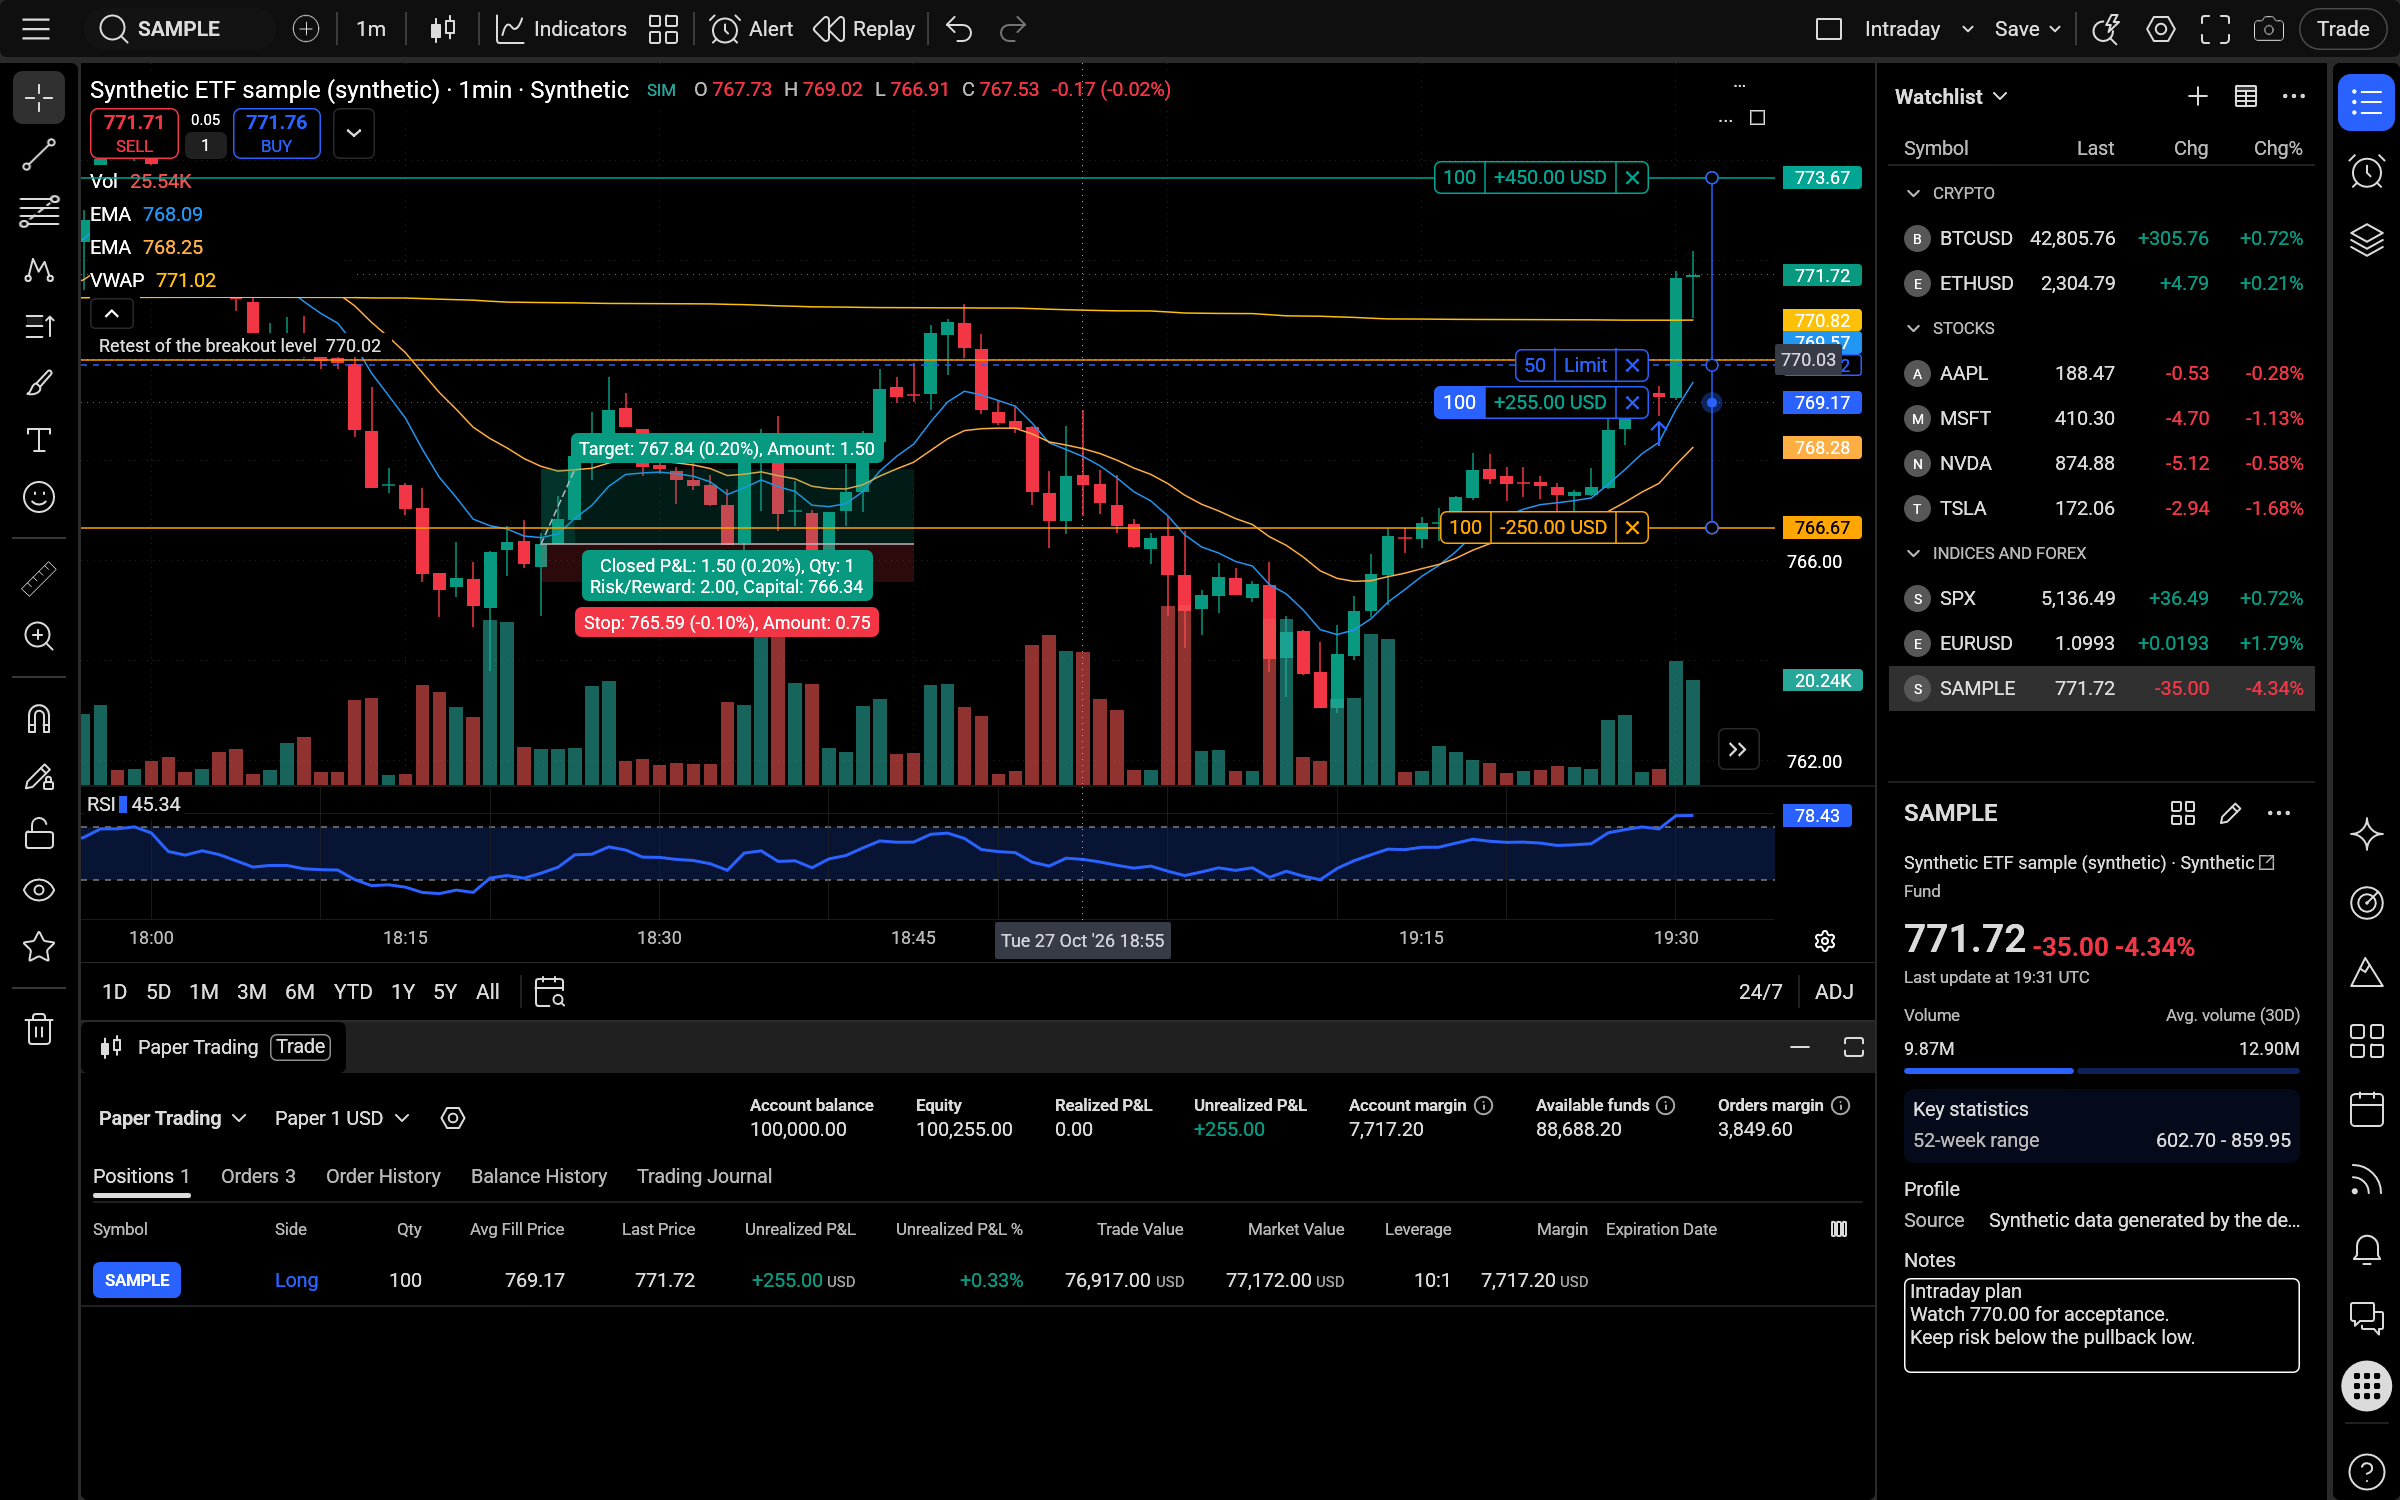
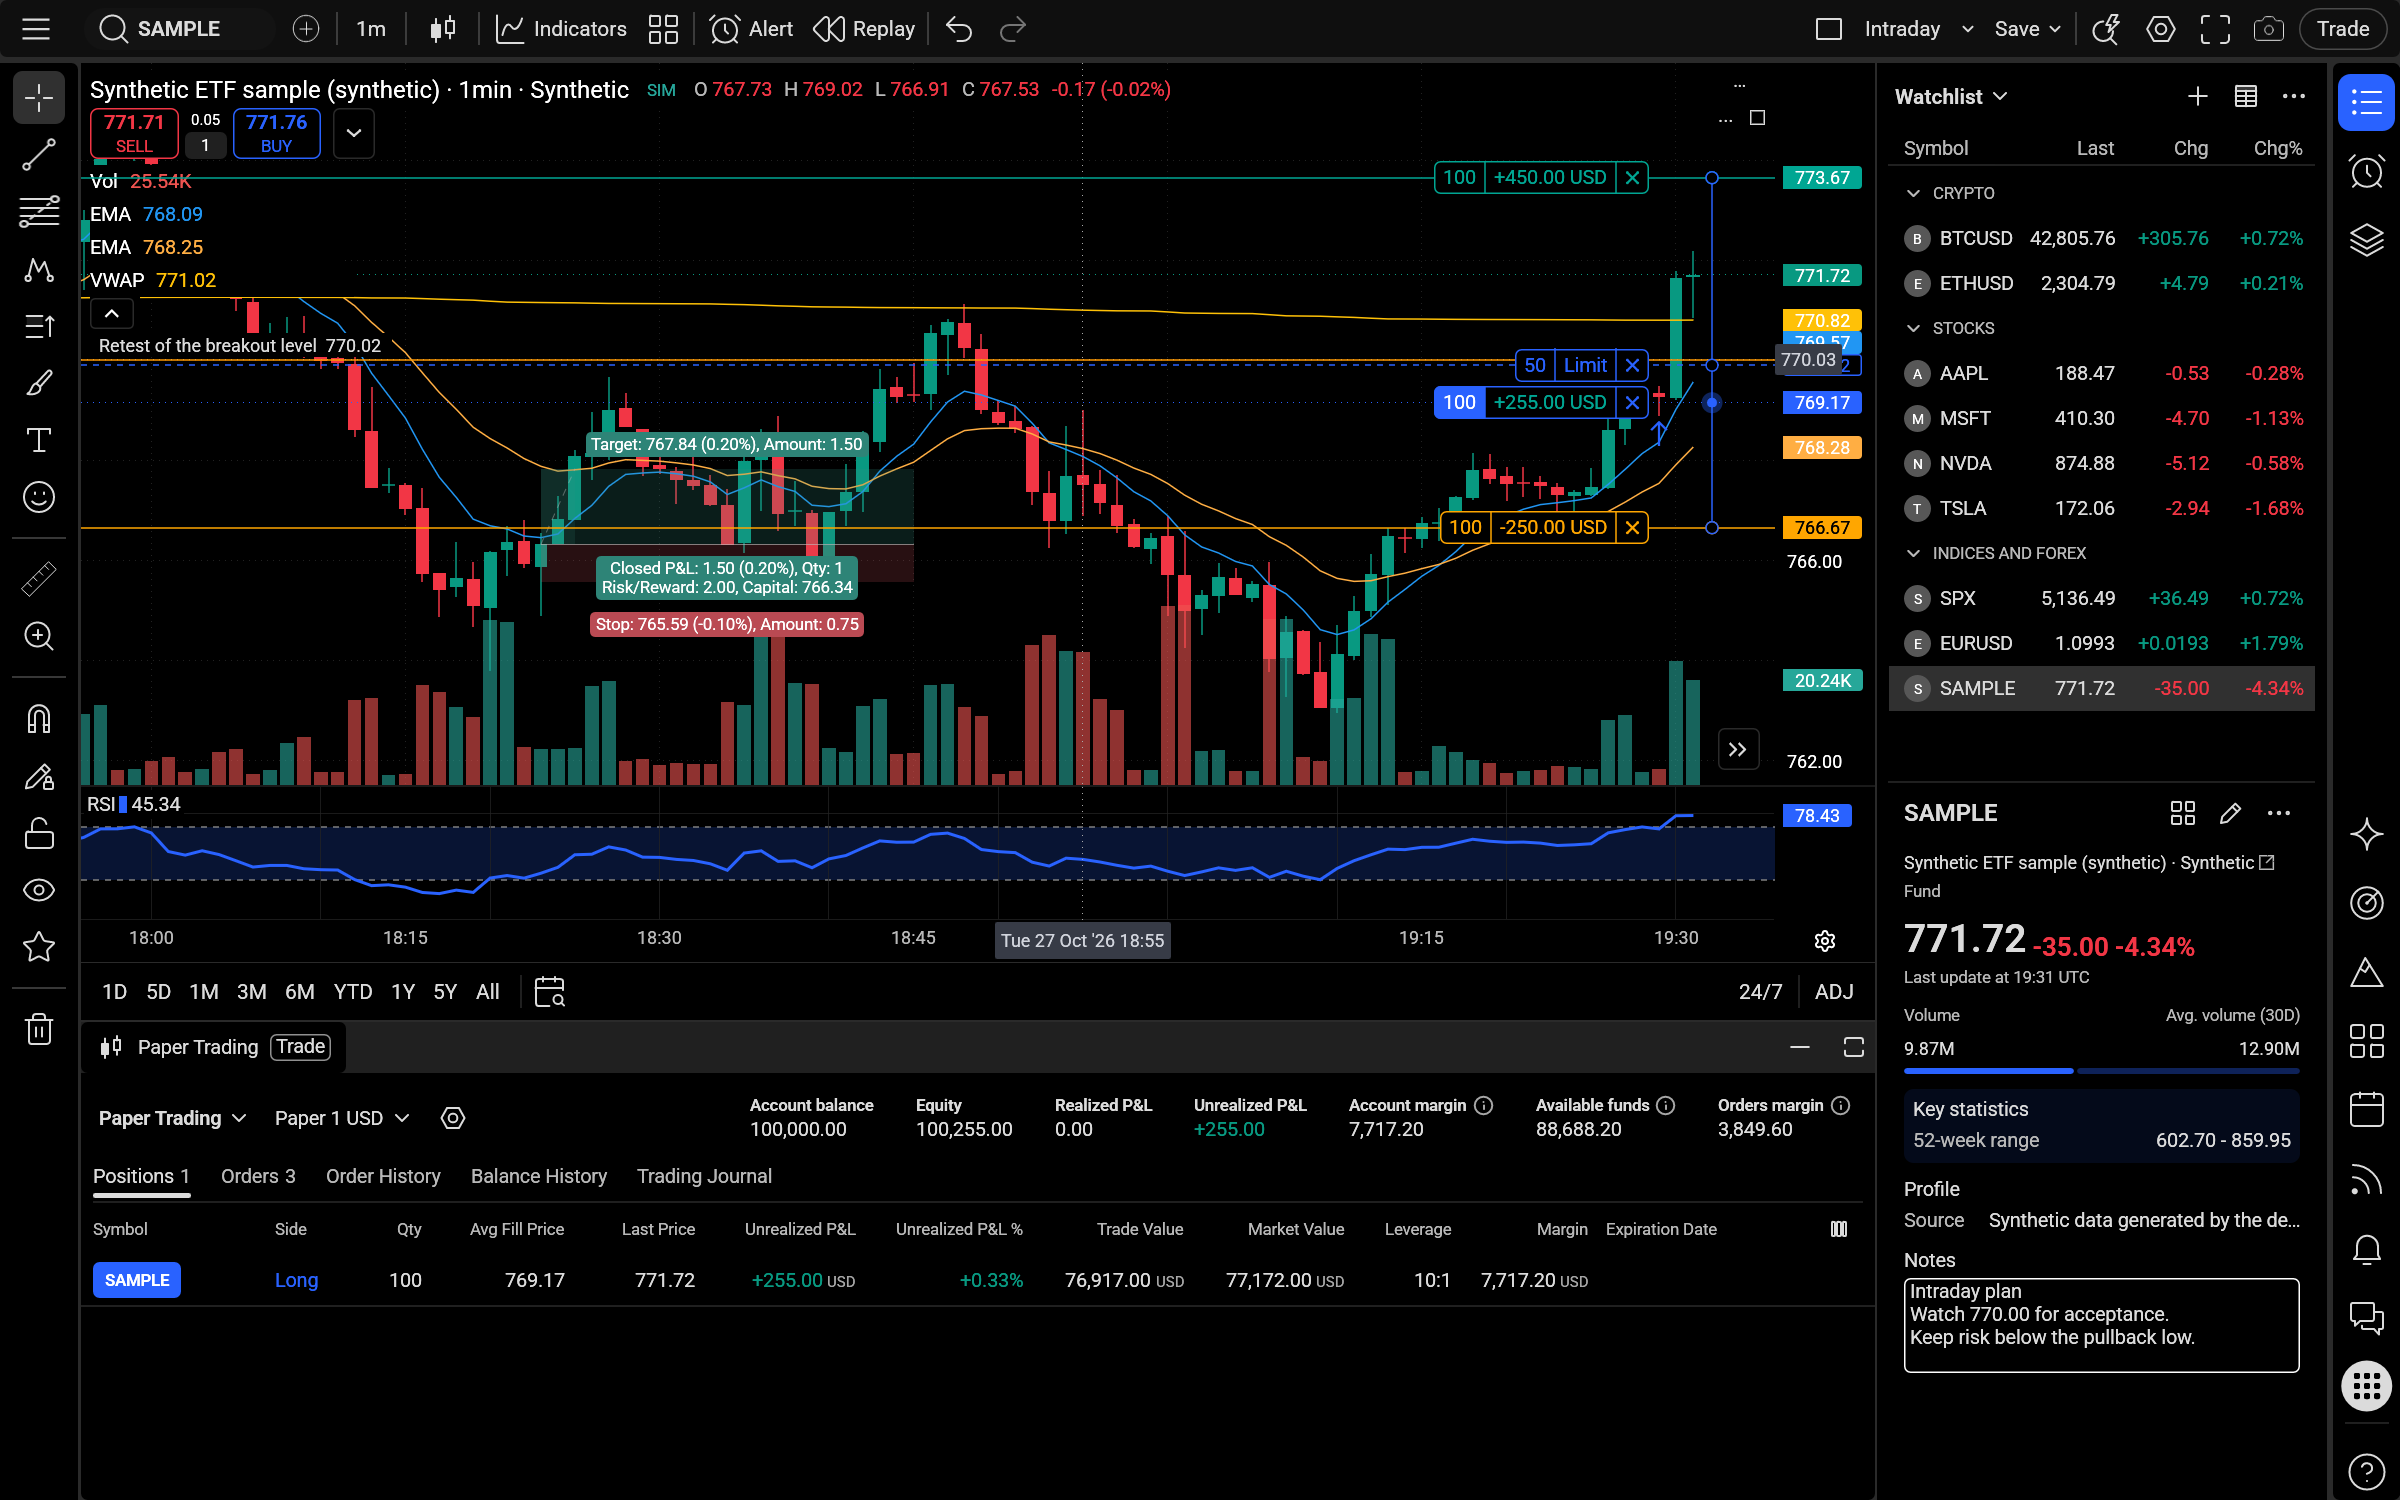
style(drawings): refine position labels and selection handles
Compact the position labels and soften zone colours so the candles remain easy to read. Use finer hollow handles and a light stats border to make selection clear, with deeper label fills for readable white text in the light theme.

Refresh both README images. Formatting, lint checks and all 135 drawing tests pass.

Changed region(s): [[0.2188, 0.368, 0.375, 0.4293], [0.2188, 0.276, 0.375, 0.3067]]

diff --git a/src/drawings/rendering/trading/position.rs b/src/drawings/rendering/trading/position.rs
@@ -5,16 +5,20 @@ use crate::drawings::rendering::utils::draw_dashed_line;
 use crate::drawings::rendering::{ChartView, bars_between};
 use crate::model::{Bar, percent_change};
 use crate::styles::{stroke, typography};
+use crate::theme::ThemeExt;
 use crate::tokens::DESIGN_TOKENS;
 use egui::{Color32, Pos2, Rect, Stroke};
-
-/// Opacity of the target and stop zones, and of the shading added over the part the trade covered.
-const ZONE_ALPHA: f32 = 0.18;
 
 impl Drawing {
     /// Renders a long or short position: entry, target and stop zones, and the
     /// result of replaying the bars after the entry bar up to the right edge.
-    pub(crate) fn render_pos_tool(&self, painter: &egui::Painter, view: &ChartView, is_long: bool) {
+    pub(crate) fn render_pos_tool(
+        &self,
+        painter: &egui::Painter,
+        view: &ChartView,
+        is_long: bool,
+        selected: bool,
+    ) {
         let (&[entry, target, ..], &[entry_at, target_at, ..]) =
             (self.points.as_slice(), self.chart_points.as_slice())
         else {
@@ -24,10 +28,18 @@ impl Drawing {
             return;
         };
 
-        // Position colors
-        let profit_color = DESIGN_TOKENS.semantic.extended.bullish;
-        let loss_color = DESIGN_TOKENS.semantic.extended.bearish;
-        let entry_color = DESIGN_TOKENS.semantic.extended.chart_text_secondary;
+        let theme = painter.ctx().active_theme();
+        let muted = |color: Color32| color.lerp_to_gamma(Color32::from_gray(128), 0.35);
+        let profit_color = muted(DESIGN_TOKENS.semantic.extended.bullish);
+        let loss_color = muted(DESIGN_TOKENS.semantic.extended.bearish);
+        // Opaque, deeper label fills keep white text legible on a light chart too.
+        let label_color = |color: Color32| {
+            color.lerp_to_gamma(Color32::BLACK, if theme.dark { 0.08 } else { 0.18 })
+        };
+        let entry_color = theme.chart.axis_text_secondary;
+        let zone_alpha = if theme.dark { 0.20 } else { 0.12 };
+        let covered_alpha = if theme.dark { 0.14 } else { 0.10 };
+        let line_width = 1.0 / painter.pixels_per_point();
 
         let (entry_price, target_price) = (entry_at.price, target_at.price);
         // The stop anchor is added when the tool is placed; until then (while
@@ -91,8 +103,20 @@ impl Drawing {
 
         let right = Self::position_right(entry, target);
 
-        self.draw_zone(painter, entry, target.y, right, profit_color);
-        self.draw_zone(painter, entry, stop_y, right, loss_color);
+        self.draw_zone(
+            painter,
+            entry,
+            target.y,
+            right,
+            profit_color.gamma_multiply(zone_alpha),
+        );
+        self.draw_zone(
+            painter,
+            entry,
+            stop_y,
+            right,
+            loss_color.gamma_multiply(zone_alpha),
+        );
 
         // The trade's path from the entry to its exit, over the part of the zone it covered.
         if let Some((exit_price, _, exit_bar)) = exit {
@@ -106,22 +130,22 @@ impl Drawing {
                 entry,
                 exit_at.y,
                 exit_x,
-                if won { profit_color } else { loss_color },
+                (if won { profit_color } else { loss_color }).gamma_multiply(covered_alpha),
             );
             draw_dashed_line(
                 painter,
                 entry,
                 exit_at,
-                Stroke::new(stroke::HAIRLINE, entry_color),
+                Stroke::new(line_width, entry_color.gamma_multiply(0.45)),
                 4.0,
-                3.0,
+                5.0,
             );
         }
 
         painter.hline(
             entry.x..=right,
             entry.y,
-            Stroke::new(stroke::HAIRLINE, entry_color),
+            Stroke::new(line_width, entry_color.gamma_multiply(0.65)),
         );
 
         let qty_part = format!("Qty: {qty_text}");
@@ -140,11 +164,11 @@ impl Drawing {
                 } else {
                     loss_color
                 };
-                (summary, fill, Color32::WHITE)
+                (summary, label_color(fill), Color32::WHITE)
             }
             None => (
                 format!("P&L: n/a, {qty_part}\nRisk/Reward: n/a"),
-                DESIGN_TOKENS.semantic.extended.chart_axis_bg,
+                theme.chart.bg_axis,
                 entry_color,
             ),
         };
@@ -180,6 +204,14 @@ impl Drawing {
             entry.y,
             stop_below,
         );
+        if selected && let Some(stats) = stats {
+            painter.rect_stroke(
+                stats,
+                3.0,
+                Stroke::new(stroke::HAIRLINE, Color32::WHITE.gamma_multiply(0.8)),
+                egui::StrokeKind::Inside,
+            );
+        }
         let stop_edge = match stats {
             Some(stats) if stop_below => stop_y.max(stats.bottom()),
             Some(stats) => stop_y.min(stats.top()),
@@ -188,7 +220,7 @@ impl Drawing {
         draw_pill(
             painter,
             target_label,
-            profit_color,
+            label_color(profit_color),
             Color32::WHITE,
             center_x,
             target.y,
@@ -197,7 +229,7 @@ impl Drawing {
         draw_pill(
             painter,
             stop_label,
-            loss_color,
+            label_color(loss_color),
             Color32::WHITE,
             center_x,
             stop_edge,
@@ -228,7 +260,7 @@ impl Drawing {
         if !painter.clip_rect().intersects(zone) {
             return;
         }
-        painter.rect_filled(zone, 0.0, color.gamma_multiply(ZONE_ALPHA));
+        painter.rect_filled(zone, 0.0, color);
     }
 }
 
@@ -248,11 +280,11 @@ fn draw_pill(
     if !clip.is_positive() {
         return None;
     }
-    let padding = egui::vec2(DESIGN_TOKENS.spacing.md, DESIGN_TOKENS.spacing.xs + 1.0);
-    let gap = DESIGN_TOKENS.spacing.sm;
+    let padding = egui::vec2(DESIGN_TOKENS.spacing.sm, DESIGN_TOKENS.spacing.xs);
+    let gap = DESIGN_TOKENS.spacing.lg;
     let mut job = egui::text::LayoutJob::simple(
         text,
-        egui::FontId::proportional(typography::SM_MD),
+        egui::FontId::proportional(typography::SM),
         text_color,
         (clip.width() - 2.0 * padding.x).max(1.0),
     );
@@ -272,7 +304,7 @@ fn draw_pill(
         (clip.right() - pill.right()).min(0.0) + (clip.left() - pill.left()).max(0.0),
         (clip.bottom() - pill.bottom()).min(0.0) + (clip.top() - pill.top()).max(0.0),
     ));
-    painter.rect_filled(pill, DESIGN_TOKENS.rounding.sm, fill);
+    painter.rect_filled(pill, 3.0, fill);
     painter.galley(
         Pos2::new(pill.center().x, pill.top() + padding.y),
         galley,

diff --git a/src/drawings/services/handle.rs b/src/drawings/services/handle.rs
@@ -399,18 +399,31 @@ impl HandleService {
             } else {
                 Some(theme.chart.bg)
             };
-            let fill = color(if ring.is_some() {
+            let mut fill = color(if ring.is_some() {
                 config.color
             } else {
                 config.selected_color
             });
+            if position && ring.is_some() {
+                fill = fill.lerp_to_gamma(theme.chart.bg, 0.15);
+            }
             if position && matches!(pos, HandlePos::Point(_)) {
                 let square = egui::Rect::from_center_size(point, egui::Vec2::splat(2.0 * radius));
                 let corner = radius / 2.0;
-                painter.rect_filled(square, corner, fill);
-                if let Some(bg) = ring {
-                    painter.rect_filled(square.shrink(RING_WIDTH), corner / 2.0, bg);
-                }
+                painter.rect(
+                    square,
+                    corner,
+                    ring.unwrap_or(fill),
+                    egui::Stroke::new(1.0, fill),
+                    egui::StrokeKind::Inside,
+                );
+            } else if position {
+                painter.circle(
+                    point,
+                    radius - 0.5,
+                    ring.unwrap_or(fill),
+                    egui::Stroke::new(1.0, fill),
+                );
             } else {
                 painter.circle_filled(point, radius, fill);
                 if let Some(bg) = ring {

diff --git a/src/drawings/rendering/mod.rs b/src/drawings/rendering/mod.rs
@@ -322,6 +322,16 @@ impl Drawing {
     /// This method handles rendering for every drawing tool type,
     /// delegating to the appropriate category-specific implementation.
     pub fn render_original(&self, painter: &egui::Painter, rect: Rect, view: &ChartView) {
+        self.render_with_selection(painter, rect, view, false);
+    }
+
+    pub(crate) fn render_with_selection(
+        &self,
+        painter: &egui::Painter,
+        rect: Rect,
+        view: &ChartView,
+        selected: bool,
+    ) {
         if self.points.is_empty() {
             return;
         }
@@ -413,8 +423,8 @@ impl Drawing {
             DrawingToolType::SineLine => self.render_sine_line(painter, rect),
 
             // Projection (6 tools)
-            DrawingToolType::LongPos => self.render_pos_tool(painter, view, true),
-            DrawingToolType::ShortPos => self.render_pos_tool(painter, view, false),
+            DrawingToolType::LongPos => self.render_pos_tool(painter, view, true, selected),
+            DrawingToolType::ShortPos => self.render_pos_tool(painter, view, false, selected),
             DrawingToolType::Forecast => self.render_forecast(painter, view),
             DrawingToolType::BarsPattern => self.render_bars_pattern(painter, view),
             DrawingToolType::GhostFeed => self.render_ghost_feed(painter),

diff --git a/src/drawings/manager/paint.rs b/src/drawings/manager/paint.rs
@@ -151,7 +151,12 @@ impl DrawingManager {
                 tool.implementation.render(drawing, painter, rect, view);
             }
         } else {
-            drawing.render(painter, rect, view);
+            drawing.render_with_selection(
+                painter,
+                rect,
+                view,
+                self.selection.is_selected(drawing.id),
+            );
         }
     }
 

diff --git a/CHANGELOG.md b/CHANGELOG.md
@@ -1094,7 +1094,7 @@ All notable changes to this project are documented in this file. The format is b
 
 ### Changed
 
-- The long and short position tools draw their handles only while selected, from the shared handle painter, and stroke only the entry line. The target and stop labels are sized to their text and centred above and below the box, with the amount gained at the target and lost at the stop; the P&L, quantity, risk/reward and capital sit in one block on the entry line, on the stop side, coloured by the result; and a dashed line runs from the entry to the exit, over the part of the zone the trade covered. Migration: `PositionToolSizingTokens` loses `label_info_width`, `label_info_height`, `label_target_width`, `label_offset_x` and `text_offset_x`, which no layout uses any more. ([#1266](https://github.com/userFRM/egui-charts/issues/1266))
+- The long and short position tools draw their handles only while selected, from the shared handle painter, and stroke only the entry line. The target and stop labels are sized to their text and centred above and below the box, with the amount gained at the target and lost at the stop; the P&L, quantity, risk/reward and capital sit in one block on the entry line, on the stop side, coloured by the result; and a dashed line runs from the entry to the exit, over the part of the zone the trade covered. Compact labels, muted theme-aware fills, finer hollow handles and a thin light border around the selected stats block keep the chart readable in both themes. Migration: `PositionToolSizingTokens` loses `label_info_width`, `label_info_height`, `label_target_width`, `label_offset_x` and `text_offset_x`, which no layout uses any more. ([#1266](https://github.com/userFRM/egui-charts/issues/1266))
 - `UserSettings` is `#[non_exhaustive]`, so that fields can be added without a breaking change. Migration: build `UserSettings` with `Default` and assign fields. `IndicatorDialogAction` implements `Clone` and `Debug`, and `SettingsAction` implements `Debug`.
 
 - Migration for scale settings: `ScalesAndLinesSettings`, `ChartConfig` and `PriceAxisOptions` literals add the new display fields or use `..Default::default()`. Older saved settings take their defaults. `chart::render_axis_currency` takes an optional unit before the currency choices; pass `None` for the previous header. `PriceScale::set_bar_ratio` accepts a positive finite number of scale units per bar, with `None` unlocking it; logarithmic axes measure natural logarithms of prices.
